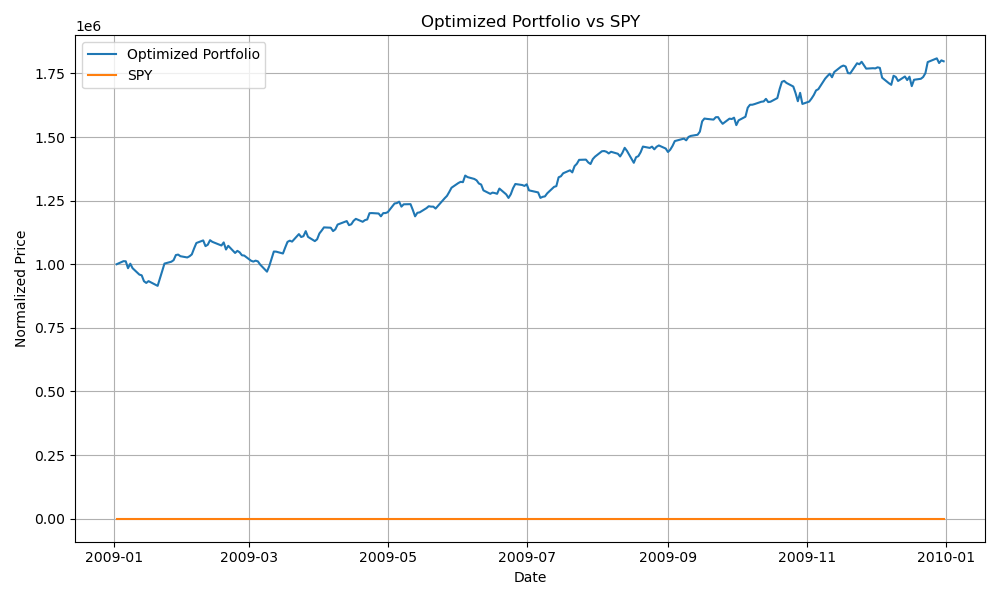
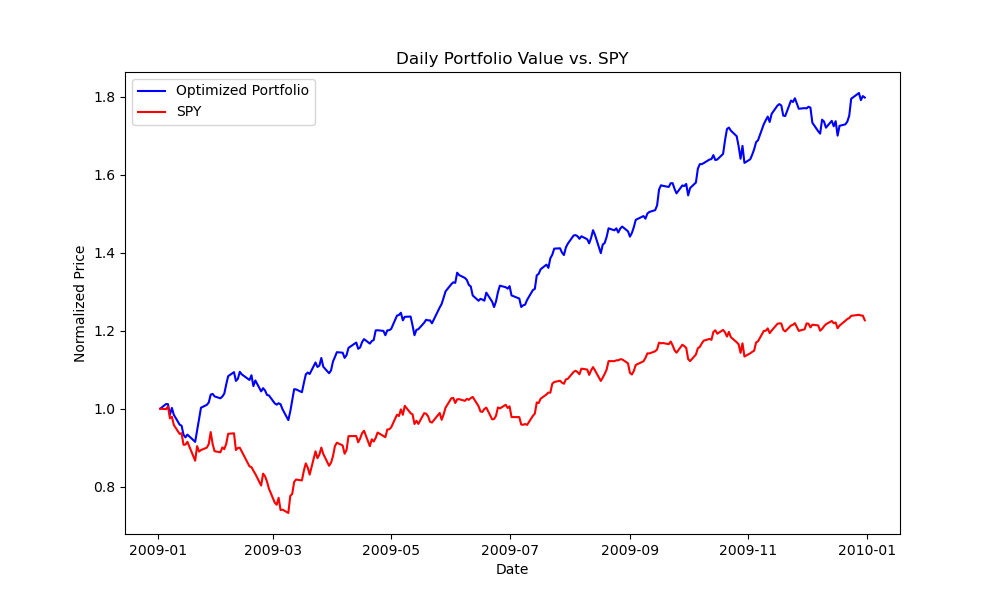
update plot 6

diff --git a/optimize_something/optimization.py b/optimize_something/optimization.py
@@ -115,8 +115,7 @@ def optimize_portfolio(sd, ed, syms, gen_plot=False):
         plt.xlabel('Date')
         plt.ylabel('Normalized Price')
         plt.legend()
-        plt.grid(True)
-        plt.show()
+        plt.savefig('plot.png')
 
     return optimized_allocs, cr, adr, sddr, sr		  	   		 	 	 			  		 			 	 	 		 		 	
   		  	   		 	 	 			  		 			 	 	 		 		 	
